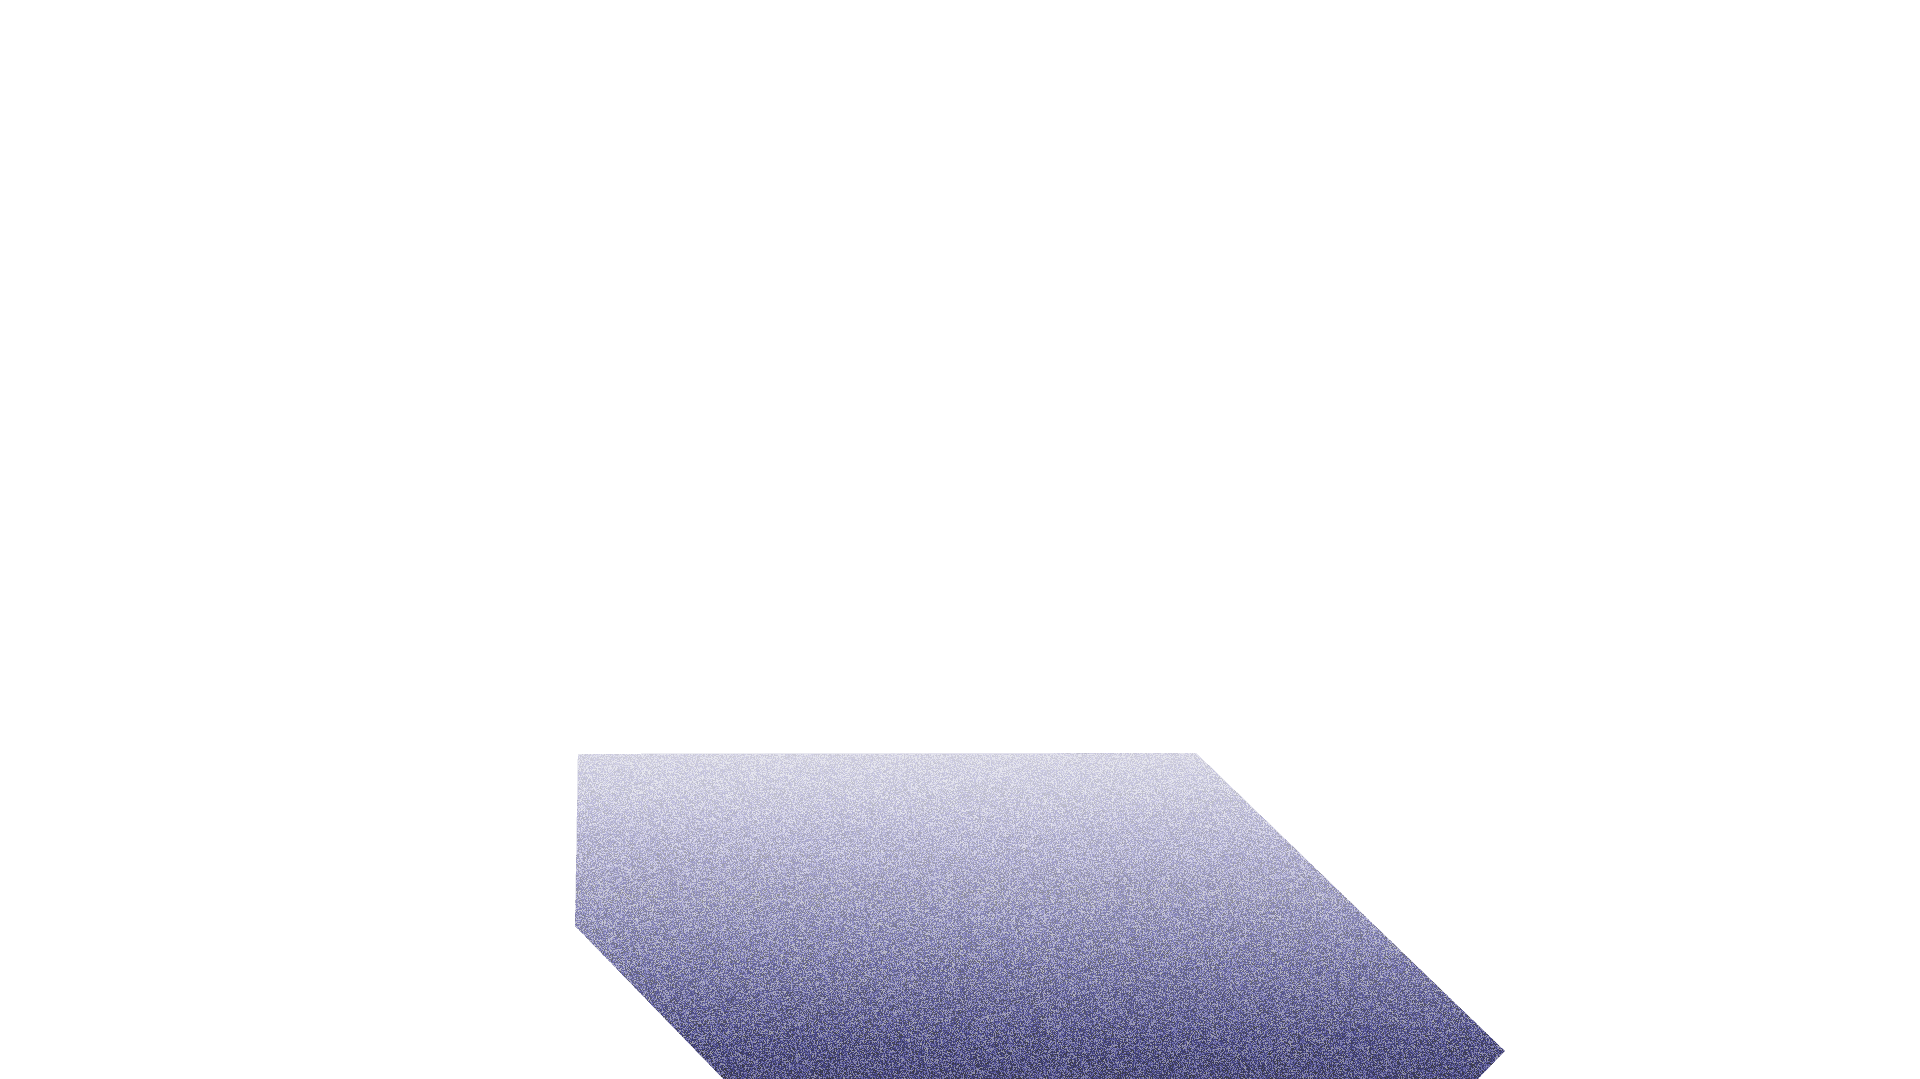
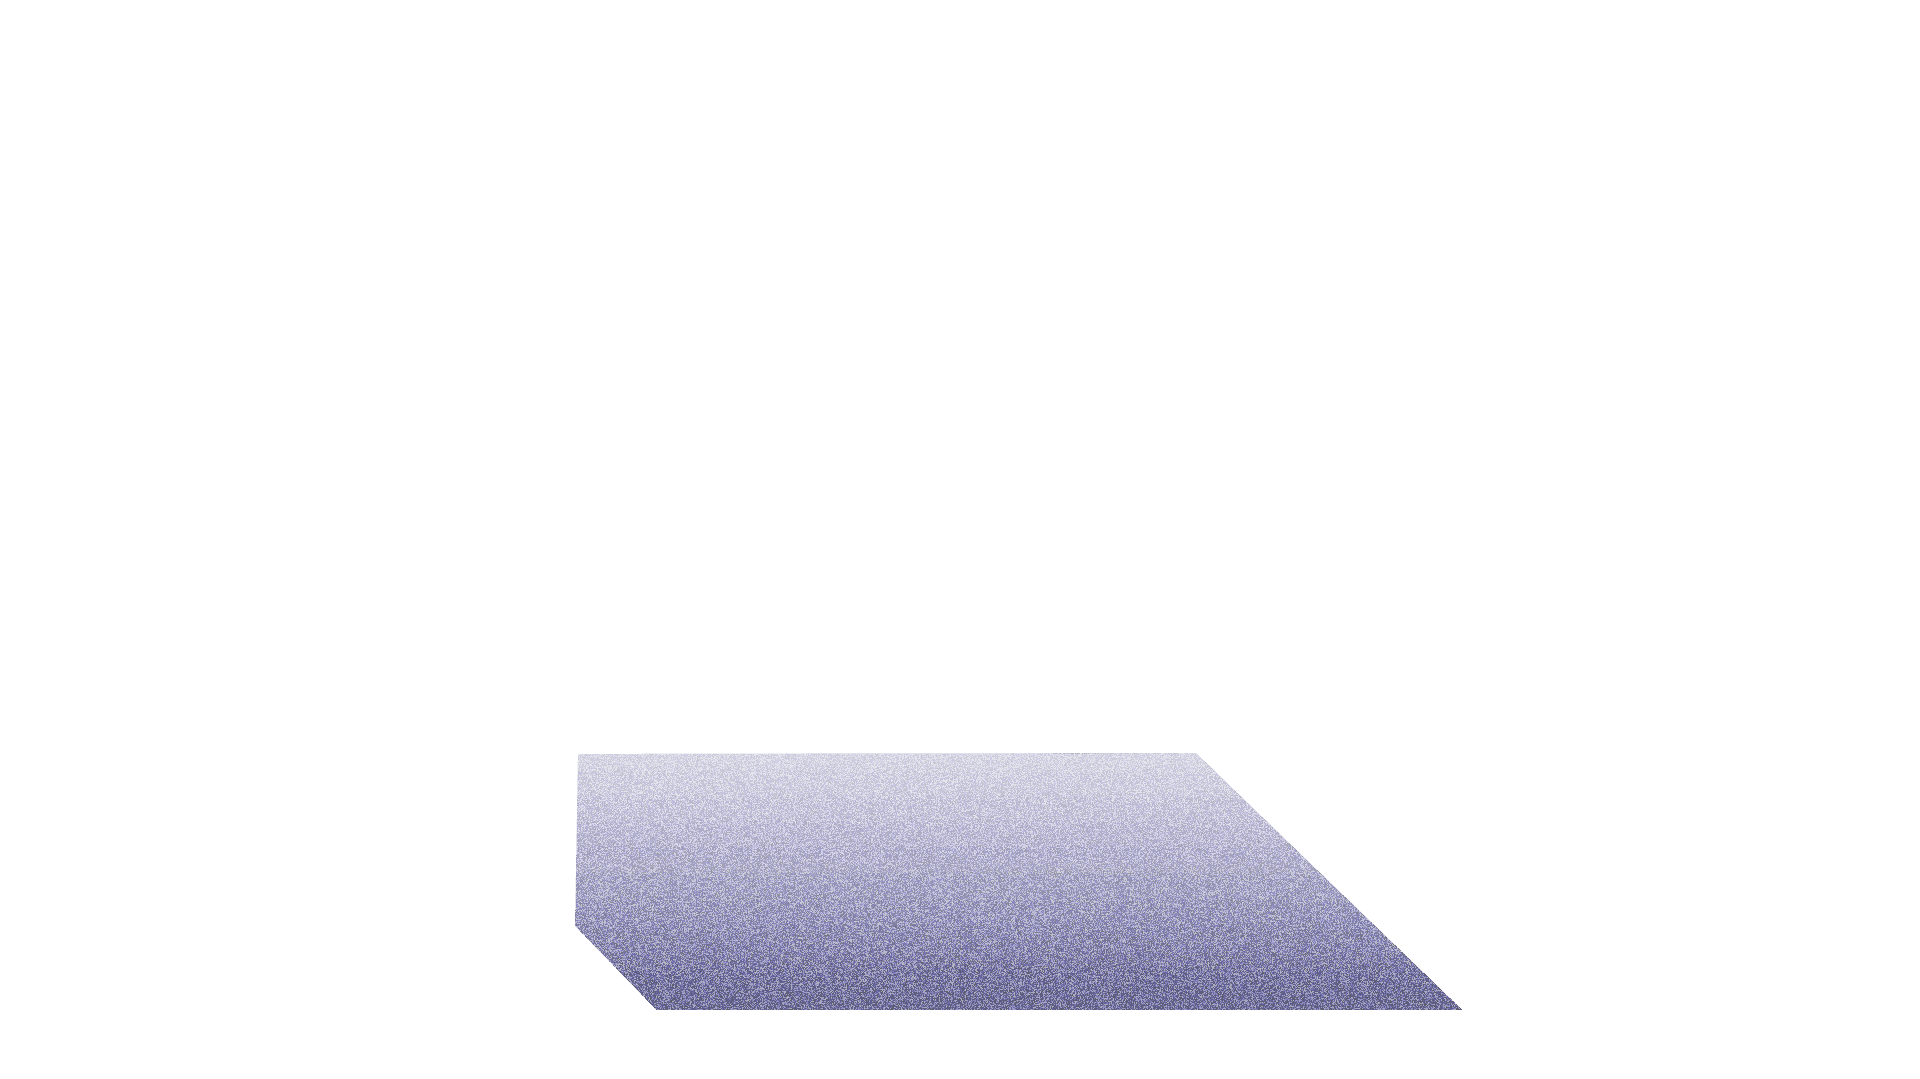
Make good challenge appear after each carousel and make draw in third carousel

Changed region(s): [[0.3438, 0.9175, 0.7812, 1.0]]

diff --git a/src/javascript/datas/thirdCarouselDatas.js b/src/javascript/datas/thirdCarouselDatas.js
@@ -1,35 +1,24 @@
 const thirdCarouselDatas = {
   datasImages: [
-    'assets/before-challenge-1/carousel-fond.jpg',
-    'assets/before-challenge-1/0-forme-1.png',
-    'assets/before-challenge-1/0-forme-2.png',
-    'assets/before-challenge-1/0-forme-3.png',
-    'assets/before-challenge-1/1-forme-1.png',
-    'assets/before-challenge-1/1-forme-2.png',
-    'assets/before-challenge-1/1-forme-3.png',
-    'assets/before-challenge-1/1-forme-4.png',
-    'assets/before-challenge-1/1-forme-5.png',
-    'assets/before-challenge-1/1-forme-6.png',
-    'assets/before-challenge-1/2-forme-1.png',
-    'assets/before-challenge-1/2-forme-2.png',
-    'assets/before-challenge-1/2-forme-3.png',
-    'assets/before-challenge-1/3-forme-1.png',
-    'assets/before-challenge-1/3-forme-2.png',
-    'assets/before-challenge-1/3-forme-3.png',
-    'assets/before-challenge-1/3-forme-4.png',
-    'assets/before-challenge-1/4-forme-1.png',
-    'assets/before-challenge-1/4-forme-2.png',
-    'assets/before-challenge-1/4-forme-3.png',
-    'assets/before-challenge-1/4-forme-4.png',
-    'assets/before-challenge-1/4-forme-5.png',
-    'assets/before-challenge-1/5-forme-1.png',
-    'assets/before-challenge-1/5-forme-2.png',
-    'assets/before-challenge-1/5-forme-3.png',
-    'assets/before-challenge-1/5-forme-4.png',
-    'assets/before-challenge-1/5-forme-5.png',
-    'assets/before-challenge-1/6-forme-1.png',
-    'assets/before-challenge-1/6-forme-2.png',
-    'assets/before-challenge-1/7-forme-1.png'
+    'assets/before-challenge-2/carousel-fond.jpg',
+    'assets/before-challenge-2/0-forme-1.png',
+    'assets/before-challenge-2/0-forme-2.png',
+    'assets/before-challenge-2/0-forme-3.png',
+    'assets/before-challenge-2/0-forme-4.png',
+    'assets/before-challenge-2/0-forme-5.gif',
+    'assets/before-challenge-2/0-forme-6.png',
+    'assets/before-challenge-2/1-forme-1.png',
+    'assets/before-challenge-2/1-forme-2.png',
+    'assets/before-challenge-2/2-forme-1.png',
+    'assets/before-challenge-2/2-forme-2.png',
+    'assets/before-challenge-2/2-forme-3.png',
+    'assets/before-challenge-2/3-forme-1.png',
+    'assets/before-challenge-2/3-forme-2.png',
+    'assets/before-challenge-2/4-forme-1.png',
+    'assets/before-challenge-2/4-forme-2.png',
+    'assets/before-challenge-2/5-forme-1.png',
+    'assets/before-challenge-2/5-forme-2.png',
+    'assets/before-challenge-2/5-forme-3.png'
   ],
   datasEyes: [
     {
@@ -48,30 +37,31 @@ const thirdCarouselDatas = {
   ],
   datasBlackboards: [
       {
-        width: 400,
-        height: 400,
-        x: 740,
-        y: 7900,
+        width: 420,
+        height: 740,
+        x: 600,
+        y: 5680,
         checkPoints : [{
           rayon: 30,
-          x: 200,
+          x: 350,
           y: 30
         }, {
           rayon: 30,
-          x: 40,
-          y: 200
+          x: 50,
+          y: 180
         }, {
           rayon: 30,
-          x: 370,
-          y: 200
-        }, {
-          rayon: 30,
-          x: 200,
-          y: 360
+          x: 235,
+          y: 710
         }
       ],
       isTestLaunch: true
     }
+  ],
+  textIntroChallenge: [
+    'acte III',
+    'les Heureux',
+    'Accidents'
   ]
 }
 

diff --git a/src/javascript/components/Carousel.class.js b/src/javascript/components/Carousel.class.js
@@ -21,7 +21,7 @@ class Carousel {
         STORAGE.carousel.numberOfWindow = 6
       } else if (this.carouselNumber == 3) {
         this.carouselDatas = thirdCarouselDatas
-        STORAGE.carousel.numberOfWindow = 8
+        STORAGE.carousel.numberOfWindow = 6
       }
 
       this.spritesFonds = {}
@@ -111,9 +111,9 @@ class Carousel {
           if (that.carouselNumber == 1) {
             that.spritesForms[objectKey].rapidity = Math.random() * (2 - 0.7) + 0.7
           } else if(that.carouselNumber == 2){
-            that.spritesForms[objectKey].rapidity = Math.random() * (0.8 - 0.4) + 0.4
-          } else if(that.carouselNumber == 3){
             that.spritesForms[objectKey].rapidity = Math.random() * (2 - 0.7) + 0.7
+          } else if(that.carouselNumber == 3){
+            that.spritesForms[objectKey].rapidity = Math.random() * (0.8 - 0.4) + 0.4
           }
 
         }
@@ -167,10 +167,10 @@ class Carousel {
       if (direction == 'down') {
         Object.keys(that.spritesForms).map(function(objectKey, index) {
           if (Math.abs(that.carousel.y + that.spritesForms[objectKey].y) < 1000) {
-            if (that.carouselNumber == 2 && index == 3 || that.carouselNumber == 2 && index == 5 || that.carouselNumber == 2 && index == 16 || that.carouselNumber == 2 && index == 9) {
+            if (that.carouselNumber == 3 && index == 3 || that.carouselNumber == 3 && index == 5 || that.carouselNumber == 3 && index == 16 || that.carouselNumber == 3 && index == 9) {
               return
             }
-            if (that.carouselNumber == 2 && index == 7 || that.carouselNumber == 2 && index == 11) {
+            if (that.carouselNumber == 3 && index == 7 || that.carouselNumber == 3 && index == 11) {
               that.spritesForms[objectKey].y += that.spritesForms[objectKey].rapidity
               return
             }
@@ -180,10 +180,10 @@ class Carousel {
       } else if (direction == 'up') {
         Object.keys(that.spritesForms).map(function(objectKey, index) {
           if (Math.abs(that.carousel.y + that.spritesForms[objectKey].y) < 1000) {
-            if (that.carouselNumber == 2 && index == 3 || that.carouselNumber == 2 && index == 5 || that.carouselNumber == 2 && index == 16 || that.carouselNumber == 2 && index == 9) {
+            if (that.carouselNumber == 3 && index == 3 || that.carouselNumber == 3 && index == 5 || that.carouselNumber == 3 && index == 16 || that.carouselNumber == 3 && index == 9) {
               return
             }
-            if (that.carouselNumber == 2 && index == 7 || that.carouselNumber == 2 && index == 11) {
+            if (that.carouselNumber == 3 && index == 7 || that.carouselNumber == 3 && index == 11) {
               that.spritesForms[objectKey].y -= that.spritesForms[objectKey].rapidity
               return
             }

diff --git a/src/javascript/components/CheckPoint.class.js b/src/javascript/components/CheckPoint.class.js
@@ -4,6 +4,8 @@ import thirdCarouselDatas from '../datas/thirdCarouselDatas.js'
 import videoDatas from '../datas/videoDatas.js'
 import ImageDeformation from './ImageDeformation.class.js'
 import FirstChallenge from './FirstChallenge.class.js'
+import SecondChallenge from './SecondChallenge.class.js'
+import ThirdChallenge from './ThirdChallenge.class.js'
 
 class CheckPoint {
 
@@ -83,7 +85,7 @@ class CheckPoint {
 
         if (this.context == "Carousel") {
           new ImageDeformation()
-          this.animateSectionTransition(1)
+          this.animateSectionTransition()
         }
         else if (this.context == "VideoIntro") {
           STORAGE.videoIntro.play()
@@ -104,17 +106,21 @@ class CheckPoint {
     }
   }
 
-  animateSectionTransition(numberOfChallenge) {
+  animateSectionTransition() {
     let textContainer = document.querySelector('.js-introduction-challenge-container')
     let textIntro = textContainer.querySelector('.js-introduction-challenge-text')
-    if (numberOfChallenge =! null) {
-      console.log(textIntro)
-      TweenLite.to(textContainer, 2, {
-        autoAlpha: 1,
-        delay: 4
-      })
-    }
 
+    textIntro.querySelector('.acte').innerText = this.carouselDatas.textIntroChallenge[0]
+    textIntro.querySelector('.title1').innerText = this.carouselDatas.textIntroChallenge[1]
+    textIntro.querySelector('.title2').innerText = this.carouselDatas.textIntroChallenge[2]
+
+
+    TweenLite.to(textContainer, 2, {
+      autoAlpha: 1,
+      delay: 4
+    })
+
+    let that = this
     TweenLite.to(STORAGE.carousel, 0.5, {
       alpha: 0,
       delay: 1
@@ -133,7 +139,14 @@ class CheckPoint {
           STORAGE.carouselClass = null
           STORAGE.deformation = null
           STORAGE.deformationClass = null
-          new FirstChallenge()
+          if (that.carouselNumber == 1) {
+            new FirstChallenge()
+          } else if (that.carouselNumber == 2) {
+            new SecondChallenge()
+          } else if (that.carouselNumber == 3) {
+            new ThirdChallenge()
+          }
+
         }, 1000)
       },
       delay: 6.5

diff --git a/src/javascript/components/Blackboard.class.js b/src/javascript/components/Blackboard.class.js
@@ -32,7 +32,7 @@ class Blackboard {
     init() {
       if (this.context == "Carousel") {
 
-        this.blackboard.beginFill(0x000000, 0)
+        this.blackboard.beginFill(0x000000, 0.3)
         console.log(STORAGE.ratioVertical, 'in blackboard', this.carouselDatas.datasBlackboards[this.index].width * STORAGE.ratioVertical )
         this.blackboard.drawRect(this.carouselDatas.datasBlackboards[this.index].x * STORAGE.ratioVertical, this.carouselDatas.datasBlackboards[this.index].y * STORAGE.ratioVertical, this.carouselDatas.datasBlackboards[this.index].width * STORAGE.ratioVertical, this.carouselDatas.datasBlackboards[this.index].height * STORAGE.ratioVertical)
         this.blackboard.interactive = true // pour attribuer événements à this.blackboard

diff --git a/src/stylesheet/main.scss b/src/stylesheet/main.scss
@@ -66,16 +66,6 @@ body {
   }
 }
 
-.js-conclusion-line {
-  // position : absolute;
-  // background-color : #A7A6F0;
-  // width : 1.5px;
-  // height : 60%;
-  // left : 50%;
-  // top : 50%;
-  // transform : translate(-50%, -55%) rotate(30deg);
-}
-
 .js-first-recompense-button {
   position: absolute;
   left : 50%;
@@ -123,14 +113,14 @@ body {
   text-align: center;
   color: #FFFFFF;
 
-  .test1 {
+  .acte {
     font-size: 34px;
     font-weight: bold;
     display: block;
     margin-bottom: 15px;
   }
 
-  .test2, .test3 {
+  .title1, .title2 {
     font-size: 70px;
     font-weight: lighter;
     display: block;

diff --git a/src/index.html b/src/index.html
@@ -44,7 +44,7 @@
 	  </div>
 
     <div class="js-introduction-challenge-container">
-      <p class="js-introduction-challenge-text"><span class="test1">acte I</span><span class="test2">la Métamorphose</span><span class="test3">du Regard</span></p>
+      <p class="js-introduction-challenge-text"><span class="acte"></span><span class="title1"></span><span class="title2"></span></p>
     </div>
 
     <div class="js-conclusion-text-container">

diff --git a/src/javascript/index.js b/src/javascript/index.js
@@ -22,7 +22,7 @@ function initCanvas() {
   new Renderer()
   new Loader()
   new SoundManager()
-  new Carousel({ number: 2 })
+  new Carousel({ number: 3 })
   new Menu()
   // new FirstChallenge()
   // new FirstRecompense()

diff --git a/src/javascript/datas/secondCarouselDatas.js b/src/javascript/datas/secondCarouselDatas.js
@@ -61,6 +61,11 @@ const secondCarouselDatas = {
       ],
       isTestLaunch: true
     }
+  ],
+  textIntroChallenge: [
+    'acte II',
+    'la Traversée',
+    'des Masques'
   ]
 }
 

diff --git a/src/javascript/datas/firstCarouselDatas.js b/src/javascript/datas/firstCarouselDatas.js
@@ -72,6 +72,11 @@ const firstCarouselDatas = {
       ],
       isTestLaunch: true
     }
+  ],
+  textIntroChallenge: [
+    'acte I',
+    'la Métamorphose',
+    'du Regard'
   ]
 }
 
